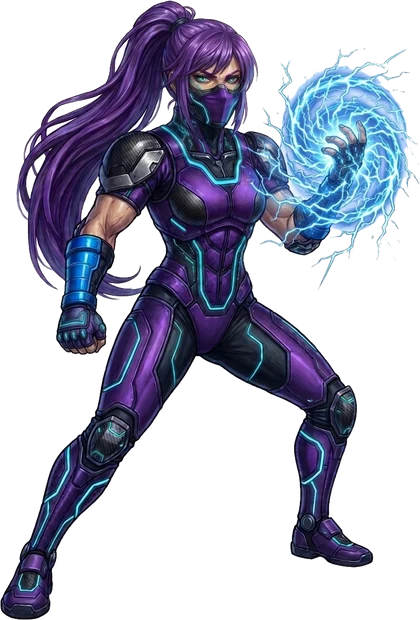
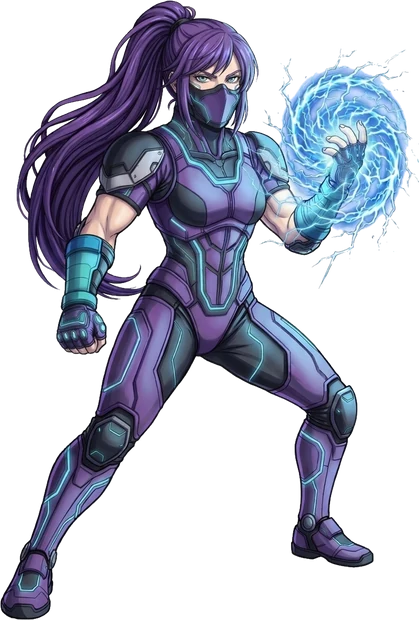
v230: new Vesper art, end screen uses new faces (loser in black and white)

Changed region(s): [[0.0, 0.0, 1.0, 1.0], [0.9308, 0.0613, 0.9618, 0.0919]]

diff --git a/game.js b/game.js
@@ -4,7 +4,7 @@
    ========================================================= */
 'use strict';
 (() => {
-const VERSION = 'v229';
+const VERSION = 'v230';
 
 let W = 384; const H = 216, GROUND = 190, GRAV = 0.34;
 let CX = 192; // centre horizontal
@@ -5547,8 +5547,8 @@ function drawTitle() {
 // Écran de sélection : personnages en entier à gauche (joueur 1) et à droite (joueur 2), grille 4 x 2 au centre
 const SEL_KEYS = ['hiro', 'axel', 'vesper', 'grog', 'zephyr', 'nyx', 'kael', 'vane'];   // indices DEFS
 const SEL_FACE_DIR = [-1, 1, 1, -1, 1, 1, -1, 1];   // sens du regard de chaque image en pied (indices DEFS : Hiro, Axel, Vesper, Grog, Zephyr, Nyx, Kael, Vane)
-const SEL_ART = SEL_KEYS.map(k => { const im = new Image(); lazySrc(im, 'sel_' + k + '.webp?v=1'); return im; });
-const SEL_FACE = SEL_KEYS.map(k => { const im = new Image(); lazySrc(im, 'face_' + k + '.jpg?v=5'); return im; });
+const SEL_ART = SEL_KEYS.map(k => { const im = new Image(); lazySrc(im, 'sel_' + k + '.webp?v=2'); return im; });
+const SEL_FACE = SEL_KEYS.map(k => { const im = new Image(); lazySrc(im, 'face_' + k + '.jpg?v=6'); return im; });
 const ADD_BTN = [0, 0, 0, 0], QR_POP = [0, 0, 0, 0];
 const inRect = (t, r) => t.x >= r[0] && t.x <= r[0] + r[2] && t.y >= r[1] && t.y <= r[1] + r[3];
 const imgOk = im => im && (im instanceof HTMLCanvasElement ? im.width > 0 : im.complete && im.naturalWidth);
@@ -5681,14 +5681,30 @@ function drawStageSelect() {
 }
 
 // Écran de fin de combat : les deux visages, le perdant blessé ; RETRY / SELECT CHARACTER
+const SEL_GRAY = [];
+function grayOf(i) {   // visage en noir et blanc (perdant)
+  if (SEL_GRAY[i]) return SEL_GRAY[i];
+  const im = SEL_FACE[i]; if (!imgOk(im)) return null;
+  const c = document.createElement('canvas'); c.width = im.naturalWidth; c.height = im.naturalHeight;
+  const g = c.getContext('2d'); g.drawImage(im, 0, 0);
+  try { const d = g.getImageData(0, 0, c.width, c.height), p = d.data; for (let j = 0; j < p.length; j += 4) { const v = p[j] * .3 + p[j + 1] * .59 + p[j + 2] * .11; p[j] = p[j + 1] = p[j + 2] = v; } g.putImageData(d, 0, 0); } catch (e) { return im; }
+  return SEL_GRAY[i] = c;
+}
+function overFace(i, x, y, sz, border, look, gray) {
+  artFill('#000', x - 2, y - 2, sz + 4, sz + 4); ring(x, y, sz, sz, 1, border);
+  const im = gray ? grayOf(i) : SEL_FACE[i];
+  if (im && imgOk(im)) artDraw(im, x, y, sz, sz, SEL_FACE_DIR[i] !== look); else drawPortrait(i, x, y, sz, border, look, gray);
+}
 function drawOver() {
-  R(0, 0, W, H, '#000'); drawCover(TITLE_IMG, 1);
-  R(0, 0, W, H, 'rgba(6,2,10,.78)');
+  R(0, 0, W, H, '#000');
+  ctx.save(); ctx.setTransform(1, 0, 0, 1, 0, 0); ctx.clearRect(0, 0, cv.width, cv.height); ctx.restore();
+  if (imgOk(TITLE_IMG)) { const k0 = Math.max(W / TITLE_IMG.naturalWidth, H / TITLE_IMG.naturalHeight), w0 = TITLE_IMG.naturalWidth * k0, h0 = TITLE_IMG.naturalHeight * k0; artDraw(TITLE_IMG, CX - w0 / 2, H / 2 - h0 / 2, w0, h0, false); }
+  artFill('rgba(6,2,10,.78)');
   const [a, b] = G.f, aw = a.wins >= 2, bw = b.wins >= 2;
   const k = Math.min(1, G.t / 25), BS = Math.min(96, Math.round((W - 80) / 2 - 20)), y0 = 22;
   const lx = Math.round(CX - 18 - BS - (1 - k) * 60), rx = Math.round(CX + 18 + (1 - k) * 60);
-  drawPortrait(a.def.idx, lx, y0, BS, aw ? '#ffd23a' : '#5a4a60', 1, !aw);
-  drawPortrait(b.def.idx, rx, y0, BS, bw ? '#ffd23a' : '#5a4a60', -1, !bw);
+  overFace(a.def.idx, lx, y0, BS, aw ? '#ffd23a' : '#5a4a60', 1, !aw);   // le perdant : en noir et blanc
+  overFace(b.def.idx, rx, y0, BS, bw ? '#ffd23a' : '#5a4a60', -1, !bw);
   text(a.def.name, lx + BS / 2, y0 + BS + 6, 8, '#ffffff', 'center');
   text(b.def.name, rx + BS / 2, y0 + BS + 6, 8, '#ffffff', 'center');
   text(aw ? 'WINNER' : 'LOSER', lx + BS / 2, y0 + BS + 17, 8, aw ? '#ffd23a' : '#9a6a6a', 'center');

diff --git a/index.html b/index.html
@@ -33,7 +33,7 @@
 <link rel="preconnect" href="https://fonts.googleapis.com">
 <link rel="preconnect" href="https://fonts.gstatic.com" crossorigin>
 <link href="https://fonts.googleapis.com/css2?family=Press+Start+2P&display=swap" rel="stylesheet">
-<link rel="stylesheet" href="style.css?v=229">
+<link rel="stylesheet" href="style.css?v=230">
 </head>
 <body>
 <div id="app">
@@ -68,6 +68,6 @@
 
 <script async src="https://cdnjs.cloudflare.com/ajax/libs/peerjs/1.5.4/peerjs.min.js"></script>
 <script async src="https://cdnjs.cloudflare.com/ajax/libs/qrcode-generator/1.4.4/qrcode.min.js"></script>
-<script src="game.js?v=229"></script>
+<script src="game.js?v=230"></script>
 </body>
 </html>
